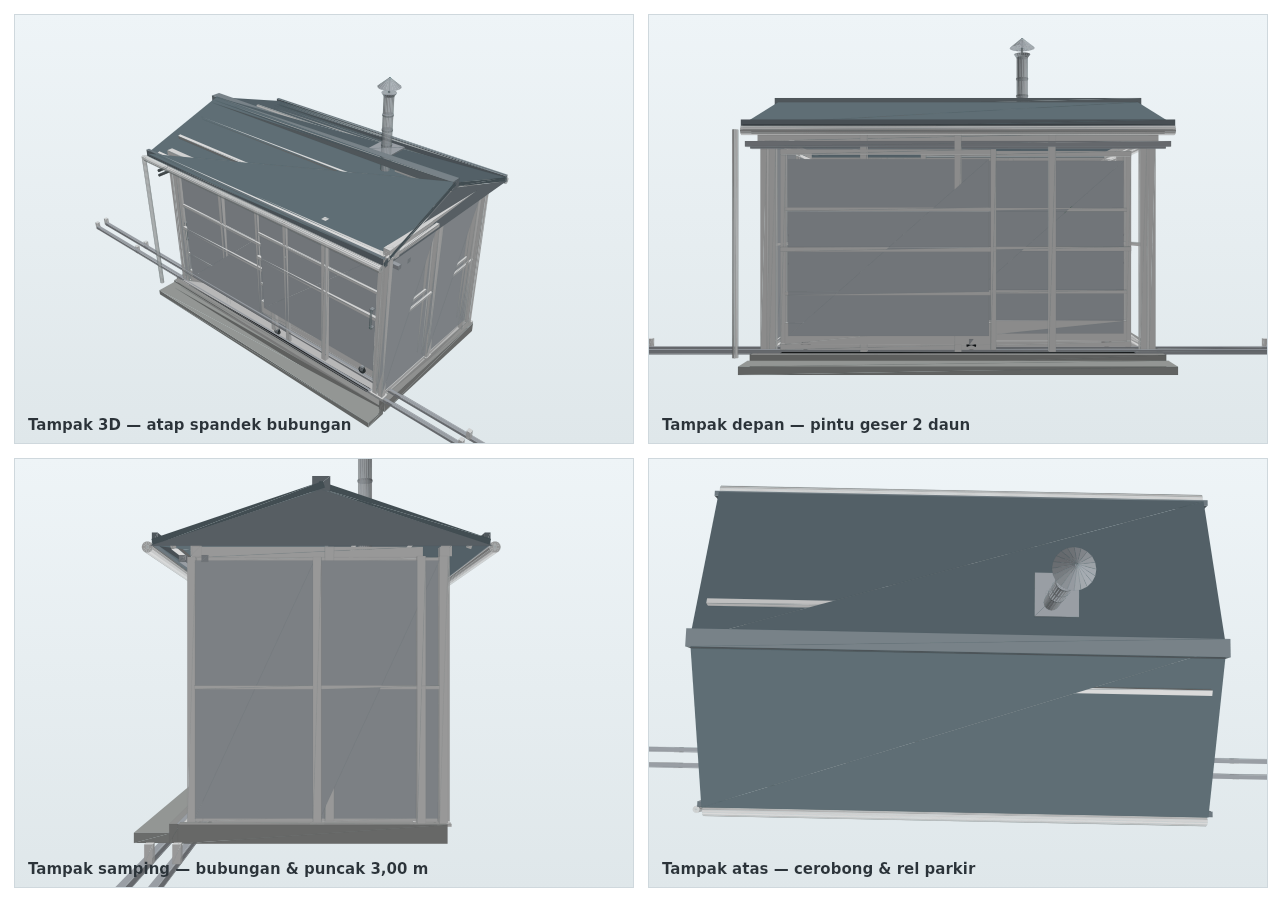
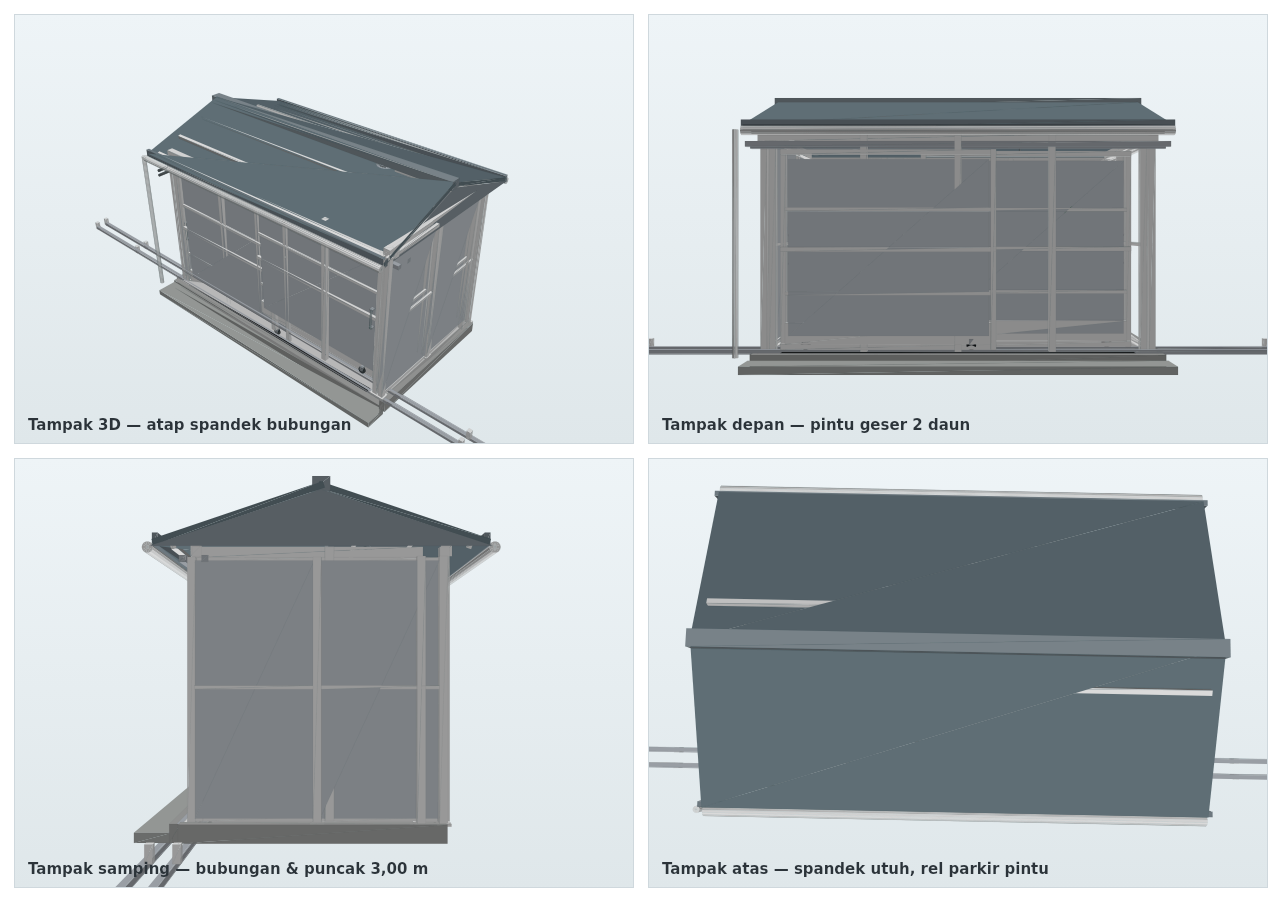
fix(v2): knalpot berhenti di bawah atap, spandek tidak dilubangi
- hapus collar/flashing + cerobong di atas atap; ujung knalpot kanopi
  cukup diberi collar, tiga penopang, dan tudung hujan (semua < bidang atap)
- gantungan knalpot ke rangka atap tetap di bawah spandek
- teks callout, tab Bagian, catatan tab Rumah, README, docs rencana,
  dan gambar rencana ikut disesuaikan
- pratinjau 4 sudut diperbarui

diff --git a/index.html b/index.html
@@ -1411,6 +1411,12 @@ function buildShelter(T, opts) {
   var roofRG0 = zb - tW - 0.35, roofRG1 = zf + 0.35;   // atap menonjol 35 cm tiap sisi
   var halfRun = (roofRG1 - roofRG0) / 2;
   var slope = Math.atan2(rise, halfRun);  // kemiringan bidang atap
+  /* tinggi (y) permukaan atap pada koordinat z tertentu — dipakai untuk menaruh
+     knalpot & gantungan supaya tetap di bawah bidang spandek */
+  function roofYAt(z) {
+    var f = Math.max(0, Math.min(1, (z - roofRG0) / (roofRG1 - roofRG0)));
+    return roofBase + rise * (1 - Math.abs(2 * f - 1));
+  }
   if (v2) {
     zincM = new T.MeshStandardMaterial({
       map: ctex(128, 128, function (g, w, h) {
@@ -1604,28 +1610,36 @@ function buildShelter(T, opts) {
   var ezCanopy = -0.55;                      // knalpot keluar dari muka belakang kanopi
   var elbowZ, risH, risTop;
   if (v2) {
-    /* V2: cerobong naik dari knalpot kanopi, menembus bidang atap spandek di sisi
-       kanan dekat belakang (posisi lingkaran pada sketsa denah). Pagar tidak
-       dilubangi. Ditambah collar/flashing + penutup hujan di atas atap. */
-    var crossZ = ezCanopy;                  // sumbu cerobong = ujung knalpot kanopi
+    /* V2: knalpot kanopi TIDAK menembus atap. Ujung knalpot yang sudah ada cukup
+       ditambah collar, tiga penopang tudung, dan tudung hujan — semuanya berhenti
+       di bawah bidang atap spandek. Pagar juga tidak dilubangi. */
+    var crossZ = ezCanopy;                  // sumbu knalpot = ujung knalpot kanopi
     var xSt = 0.88;
-    // tinggi bidang atap di titik tembus (interpolasi lereng)
-    var fZ = (crossZ - roofRG0) / (roofRG1 - roofRG0);
-    var yRoof = roofBase + rise * (1 - Math.abs(2 * Math.max(0, Math.min(1, fZ)) - 1));
+    var muffTop = 2.66;                     // ujung atas knalpot kanopi (dari model genset)
+    // tinggi bidang atap tepat di atas knalpot, lalu sisakan ruang bebas
+    var yRoofHere = roofYAt(crossZ);
+    var capTop = Math.min(muffTop + 0.16, yRoofHere - 0.1, ridgeY - 0.1);
+    var capH = 0.08, capR = 0.14;
     elbowZ = crossZ;
-    cyl(0.1, 0.11, steelM, 'y', xSt, yRoof + 0.03, crossZ, exG, 22);
-    box(0.4, 0.02, 0.4, steelM, xSt, yRoof + 0.085, crossZ, exG, false);
-    // cerobong: dari ujung knalpot kanopi sampai 1,0 m di atas atap
-    var chTop = ridgeY + 0.75, chBot = 2.58;   // dari ujung knalpot kanopi sampai atas atap
-    cyl(0.075, chTop - chBot, stainM, 'y', xSt, (chTop + chBot) / 2, crossZ, exG, 20);
-    [0.35, 0.55, 0.75].forEach(function (f) { cyl(0.082, 0.02, steelM, 'y', xSt, chBot + f * (chTop - chBot), crossZ, exG, 18); });
-    // penutup hujan (cap) di ujung atas
-    cyl(0.075, 0.05, steelM, 'y', xSt, chTop + 0.02, crossZ, exG, 20, 0.11);
-    cyl(0.012, 0.2, steelM, 'y', xSt, chTop + 0.14, crossZ, exG, 10);
-    var cap = new T.Mesh(new T.ConeGeometry(0.17, 0.14, 20), steelM);
-    cap.position.set(xSt, chTop + 0.2, crossZ); exG.add(cap);
+    // collar di ujung knalpot
+    cyl(0.1, 0.03, steelM, 'y', xSt, muffTop + 0.01, crossZ, exG, 20, 0.112);
+    // tiga penopang tudung
+    for (var ci = 0; ci < 3; ci++) {
+      var ca = ci / 3 * PI * 2;
+      cyl(0.008, Math.max(0.02, capTop - capH / 2 - muffTop - 0.02), steelM, 'y',
+        xSt + Math.cos(ca) * capR * 0.72, (muffTop + 0.02 + capTop - capH / 2) / 2, crossZ + Math.sin(ca) * capR * 0.72, exG, 8);
+    }
+    // tudung hujan (di bawah atap)
+    var cap = new T.Mesh(new T.ConeGeometry(capR, capH, 20), steelM);
+    cap.position.set(xSt, capTop - capH / 2, crossZ); exG.add(cap);
+    // gantungan knalpot ke rangka atap, tetap di bawah bidang atap
+    var hangZ = crossZ - 0.34, hangY = Math.min(muffTop - 0.04, roofYAt(hangZ) - 0.06);
+    cyl(0.011, 0.34, steelM, 'z', xSt, hangY, crossZ - 0.17, exG, 8);
+    box(0.05, 0.03, 0.045, steelM, xSt, hangY, hangZ, exG, false);
+    // batang pendek naik dari knalpot ke gantungan
+    cyl(0.011, 0.12, steelM, 'y', xSt, hangY - 0.06, hangZ, exG, 8);
     risH = 0;
-    risTop = chTop;
+    risTop = capTop;
   } else {
     var ezLen = Math.max(0.4, ezCanopy - ez), ezMid = (ezCanopy + ez) / 2;
     cyl(0.058, ezLen, pipeM, 'z', 0.88, exY, ezMid, exG, 18);
@@ -1808,7 +1822,7 @@ function buildShelter(T, opts) {
     { part: 'shVentOut', label: 'Kisi udara keluar', pos: [a + 0.2, 1.8, 0.1], n: [1, 0, 0] },
     { part: 'shSign', label: 'Papan peringatan', pos: [-(a + 0.25), 1.9, zf - 0.7], n: [-1, 0, 0] },
     { part: 'shFloor', label: v2 ? 'Lantai beton + sloof 15 cm' : 'Lantai beton', pos: [0, v2 ? -0.06 : -0.1, platZ1 + 0.25], n: [0, 0, 1] },
-    { part: 'shExhaust', label: v2 ? 'Cerobong menembus atap' : 'Knalpot tembus dinding', pos: v2 ? [0.88, risTop - 0.3, elbowZ] : [0.88, exY + risH + 0.16, elbowZ], n: null },
+    { part: 'shExhaust', label: v2 ? 'Cerobong di bawah atap' : 'Knalpot tembus dinding', pos: v2 ? [0.88, risTop - 0.15, elbowZ] : [0.88, exY + risH + 0.16, elbowZ], n: null },
     { part: 'shLights', label: 'Lampu downlight', pos: [-a * 0.5, roofBase - 0.1, zf - 0.55], n: null, need: 'roofFade' },
     { part: 'shPanel', label: v2 ? 'Panel genset + kWh' : 'Panel distribusi', pos: v2 ? [-(a + 0.28), 1.85, zf - 1.75] : [pnx, 1.85, zb + 0.2], n: v2 ? [-1, 0, 0] : null },
     { part: 'shApar', label: 'APAR', pos: [apx, 1.55, v2 ? zb + 0.3 : zb + 0.2], n: null, need: 'inside' }
@@ -1889,7 +1903,7 @@ function buildShelter(T, opts) {
       mn: 'Panel genset + kWh (luar)', md: 'Sesuai sketsa, panel genset dan kotak kWh dipasang di dinding samping luar, bukan di dalam. Dua jalur kabel genset masuk menembus pagar menuju panel, jadi operator bisa memantau beban tanpa masuk ke rumah genset. Kotak kWh terpisah di bawahnya, dengan konduit naik ke atas.', c: function (S) { return { t: [-S.a + 0.45, 1.45, S.zb], az: -0.35, pol: 1.4, r: 4.2 }; }, gates: true },
     shApar: { n: 'APAR (pemadam api)', k: 'Rumah genset', d: 'Alat pemadam api ringan 6 kg ABC dengan pengikat di dinding belakang dekat radiator, lengkap dengan tanda hijau di atasnya.', c: function (S) { return { t: [S.a - 0.4, 1.2, S.zb], az: 0.35, pol: 1.4, r: 4.2 }; }, gates: true },
     shExhaust: { n: 'Knalpot tembus dinding', k: 'Rumah genset', d: 'Pipa knalpot menembus dinding belakang lewat flens, lalu naik dan ditutup tudung anti hujan di luar. Gas buang keluar jauh dari ruang genset.',
-      mn: 'Cerobong menembus atap', md: 'Knalpot kanopi disambung pipa tegak (cerobong) yang menembus bidang atap spandek di sisi kanan dekat belakang — posisi yang sama dengan lingkaran “cerobong knalpot” pada sketsa denah. Di titik tembus ada collar dan flashing supaya air hujan tidak masuk, dan ujungnya diberi penutup hujan. Pagar tidak dilubangi sama sekali.', c: function (S) { return { t: [0.88, 2.8, -1.2], az: 2.9, pol: 1.2, r: 5 }; } },
+      mn: 'Cerobong (di bawah atap)', md: 'Knalpot kanopi disambung pipa tegak (cerobong) di sisi kanan dekat belakang — posisi yang sama dengan lingkaran “cerobong knalpot” pada sketsa denah. Cerobong ini naik hanya di dalam rumah genset dan berhenti di bawah bidang atap spandek; atap tidak dilubangi. Ujungnya diberi tudung supaya gas buang tidak menyembur langsung ke bidang atap, dan dipasang gantungan ke rangka atap. Pagar juga tidak dilubangi sama sekali.', c: function (S) { return { t: [0.88, 2.7, -1.05], az: 2.9, pol: 1.2, r: 5 }; } },
     shGarden: { n: 'Taman dan pohon palem', k: 'Rumah genset', d: 'Pohon palem berbatang cincin dengan daun berjari, semak berdaun, dan rumput bertekstur di sebelah kanan, seperti pada foto acuan. Bisa dimatikan di tab Rumah.', c: function (S) { return { t: [S.a + 2.5, 1.5, S.zf - 0.3], az: 0.9, pol: 1.3, r: 9 }; } }
   };
   var ORDER = [
@@ -2431,7 +2445,7 @@ function buildShelter(T, opts) {
       ? 'Versi pagar (sketsa lapangan): modul 4,50 × 2,50 m, pagar wiremesh isi 25 cm, atap spandek bubungan, dan pintu geser samping seperti pagar roda.'
       : 'Rumah genset berpintu louvre ganda, atap beton, dan lantai plat seperti pada foto acuan.';
     if (note) note.textContent = mesh
-      ? 'Ukuran dalam meter, diukur dari bagian dalam pagar (4,00 × 2,00 m). Dinding pagar isi 25 cm, jadi modul luar 4,50 × 2,50 m. Tinggi 3,00 m = pagar 2,40 m + naik atap 0,60 m; cerobong menembus atap, panel genset + kWh di dinding samping luar.'
+      ? 'Ukuran dalam meter, diukur dari bagian dalam pagar (4,00 × 2,00 m). Dinding pagar isi 25 cm, jadi modul luar 4,50 × 2,50 m. Tinggi 3,00 m = pagar 2,40 m + balok ring 10 cm + naik atap 50 cm; cerobong berhenti di bawah atap, panel genset + kWh di dinding samping luar.'
       : 'Ukuran dalam meter, diukur dari bagian dalam dinding. Dinding plester kuning setebal 20 cm, atap menjorok 0,6 m di depan.';
     // nama bagian di tab "Bagian" ikut versi
     document.querySelectorAll('.part-row').forEach(function (b) {

diff --git a/docs/rencana-v2.md b/docs/rencana-v2.md
@@ -50,7 +50,7 @@ Sketsa ini berbeda secara mendasar:
 | Tinggi | 2,35 m (dipotong otomatis dari tinggi ruangan) | **tetap 2,40 m**, tidak mengikuti slider tinggi |
 | Pintu | 2 daun **engsel**, buka ke depan | 2 daun **geser samping** dengan roda (“seperti pagar roda”) |
 | Bukaan | pintu menutup sebagian depan | **seluruh sisi depan** bisa dibuka (bukaan 4,00 m) |
-| Cerobong | hanya knalpot kanopi naik menembus atap | **cerobong khusus** menembus atap, ditandai di denah & tampak depan |
+| Knalpot | hanya knalpot kanopi naik menembus atap | **knalpot khusus** di posisi yang ditandai lingkaran pada denah, tetapi (revisi klien) **berhenti di bawah atap** |
 | Kelistrikan | panel distribusi di dalam | **panel + kWh di dinding samping luar**, kabel masuk satu jalur |
 | Dinding | rangka + jaring | rangka + jaring, **tiang hollow 60 × 60** di sudut, **3 rel** (atas/tengah/bawah) |
 | Pondasi | plat beton | **sloof/pondasi 15 cm** + lantai beton |
@@ -63,34 +63,32 @@ Lihat gambar: `docs/img/v2-pagar-rencana.svg`.
 
 - **Modul**: 4,50 × 2,50 m luar; isi pagar 25 cm → ruang bersih 4,00 × 2,00 m. Sesuai sketsa apa adanya.
 - **Dinding**: tiang hollow 60 × 60 di 4 sudut + tiang pembagi tiap ±1,3 m; rel atas, tengah, bawah; wiremesh 10 × 10 cm di semua bidang. Pagar belakang dibuat **panel lepas** (sekrup) supaya servis dari belakang tetap mungkin walau ruangnya sempit.
-- **Tinggi dinding**: 2,40 m (sesuai sketsa “250 = lebar”, bukan tinggi; 2,40 m adalah angka yang paling masuk akal untuk pagar + genset 1,75 m).
-- **Atap**: baja ringan + spandek, **bubungan memanjang** dengan kemiringan ±25°, rise 60 cm → puncak ±3,00 m. Menonjol 30 cm di depan-belakang dan 20 cm di samping, plus talang.
-- **Cerobong**: pipa dari knalpot genset naik menembus atap di posisi yang sama seperti sketsa (sisi kanan, dekat belakang), dengan collar + flashing + penutup hujan.
+- **Tinggi dinding**: 2,40 m, ditambah balok ring 10 cm dan naik atap 50 cm → total 3,00 m (keputusan klien).
+- **Atap**: baja ringan + spandek, **bubungan memanjang** dengan kemiringan ±21°, naik 50 cm dari balok ring → puncak 3,00 m. Menonjol 35 cm di depan-belakang, dilengkapi nok, lis, dan talang.
+- **Knalpot / cerobong**: tetap di posisi yang sama seperti sketsa (sisi kanan, dekat belakang), tetapi **berhenti di bawah atap** — atap spandek tidak dilubangi. Ujung knalpot diberi collar + tudung hujan dan digantung ke rangka atap supaya tidak menggantung bebas.
 - **Pintu geser**: 2 daun @ ±2,00 × 2,30 m, rangka hollow + wiremesh, roda di rel bawah, daun kiri bergeser ke kiri dan daun kanan ke kanan (di luar modul, perlu ruang parkir ±2 m di tiap sisi — atau daun kedua menumpang di belakang daun pertama bila lahan sempit).
 - **Kelistrikan**: panel genset + kWh di dinding samping luar (kiri), satu jalur kabel masuk lewat dinding.
 - **Pondasi**: sloof 15 × 20 cm + lantai beton 10 cm, dinaikkan 15 cm dari tanah seperti sketsa.
 
-## 5 · Keputusan yang saya butuh darimu
+## 5 · Keputusan yang sudah diambil
 
-1. **Tinggi total.** Sketsa hanya memberi 450 × 250 tanpa tinggi. Pilih:
-   - **2,40 m** — persis seperti yang terbaca dari sketsa; ringkas, cukup untuk genset 1,75 m, tapi **pintu-pintu kanopi genset tidak bisa dibuka penuh** di dalam (kanopi butuh ±2,1 m + ruang buka).
-   - **2,75 m** *(usulan saya)* — masih rendah, panel kanopi bisa dibuka, atap tetap terlihat seperti sketsa.
-   - **3,00 m** — kalau kamu ingin lebih lega dan mirip V1.
-2. **Pintu geser: berapa daun?** Dua daun (seperti sketsa, butuh ±2 m ruang parkir di tiap sisi) atau satu daun besar (±4 m, butuh 4 m ruang parkir satu sisi)? Kalau lahan di depan sangat sempit, alternatifnya pintu lipat.
-3. **4,50 × 2,50 m dipakai apa adanya?** Dengan isi 25 cm, ruang bersih cuma 2,00 m sementara genset 1,10 m — masih lega. Tapi kalau mau ruang servis samping lebih baik, bisa dibulatkan ke **4,50 × 2,60 m** (bersih 2,10 m) tanpa mengubah bentuk.
-4. **Denah di sketsa: mana sisi depan?** Di sketsa, pintu geser digambar di sisi **panjang** (450). Saya ikuti itu. Kalau sebenarnya pintu ada di sisi **pendek** (250), kabari — bentuk atap dan arah geser akan ikut berubah.
+1. **Tinggi total** — **3,00 m** (pagar 2,40 m + balok ring 10 cm + naik atap 50 cm), supaya panel kanopi genset tetap bisa dibuka di dalam.
+2. **Pintu geser** — **2 daun**, masing-masing ±2,16 m, roda di rel bawah.
+3. **Modul** — **4,50 × 2,50 m dipakai apa adanya** (ruang bersih 4,00 × 2,00 m).
+4. **Sisi depan** — **sisi panjang 450 cm**, jadi bubungan memanjang.
+5. **Atap & knalpot** — atap tetap **spandek bubungan**; **knalpot tidak menembus atap**, berhenti di bawahnya.
 
-## 6 · Yang akan saya kerjakan setelah konfirmasi
+## 6 · Yang sudah dikerjakan
 
 Semua di `index.html`, tanpa build step:
 
-1. **Preset V2 baru**: tombol versi rumah tetap “V2 · Pagar wiremesh”, tapi parameternya diganti ke modul sketsa (450 × 250, isi 25 cm, tinggi dinding dari jawaban §5.1).
+1. **Preset V2 baru**: tombol versi rumah tetap “V2 · Pagar wiremesh”, parameternya modul sketsa (4,50 × 2,50 m, isi 25 cm, total tinggi 3,00 m). Ukuran di slider diukur dari dalam pagar.
 2. **Atap bubungan**: ganti atap seng datar dengan dua bidang spandek + reng + lis, plus talang; kamera “3D” tetap enak melihat bubungannya.
-3. **Pintu geser**: daun pintu baru dengan rel bawah + roda, animasi geser (bukan putar), label “geser” di tab Pintu, dan pembatas otomatis supaya daun tidak menabrak apa pun.
-4. **Cerobong**: naik dari knalpot menembus atap dengan collar/flashing, posisi sesuai sketsa.
-5. **Panel + kWh di luar**: dipindah ke dinding samping luar, kabel masuk satu jalur.
+3. **Pintu geser**: daun pintu baru dengan rel bawah + roda, animasi geser (bukan putar), rel parkir di kiri-kanan, dan label “geser” di tab Pintu.
+4. **Knalpot**: naik hanya di dalam rumah genset, berhenti di bawah atap dengan collar + tudung hujan; atap spandek utuh tanpa lubang.
+5. **Panel + kWh di luar**: dipindah ke dinding samping luar, dua jalur kabel masuk.
 6. **Pondasi 15 cm + lantai beton**: diangkat dari tanah, dengan tangga/step di depan pintu.
-7. **Label & teks**: semua callout, teks tab Rumah, README, dan tautan *Bagikan* ikut diperbarui (hash versi dinaikkan supaya tautan lama tidak menampilkan campuran).
-8. **Cek visual**: render beberapa sudut untuk memastikan tidak ada bagian yang saling menembus.
+7. **Label & teks**: semua callout, teks tab Rumah, README, gambar rencana, dan tautan *Bagikan* ikut diperbarui (hash versi dinaikkan supaya tautan lama tidak menampilkan campuran).
+8. **Cek visual**: render beberapa sudut (pratinjau di `docs/img/v2-pagar-pratinjau.png`) untuk memastikan tidak ada bagian yang saling menembus — termasuk jarak ujung knalpot ke bidang atap.
 
 Kalau ada angka lain dari lapangan (misal gensetnya 2,5 m atau 3 m panjang), sebutkan saja — modul 4,50 m masih cukup untuk genset sampai 3,2 m.

diff --git a/README.md b/README.md
@@ -10,7 +10,7 @@ Interaktif 3D cutaway untuk genset bersilencer (soundproof enclosure) — pintu,
 - **Dua versi rumah genset** (tab *Rumah → Versi rumah*):
   - **V1 · Dinding plester** — rumah kuning dengan pintu louvre ganda, atap beton, dan kusen ventilasi.
     Ukuran bawaan V1: 5,0 × 4,1 × 3,1 m. Ukuran bawaan V2: 4,0 × 2,0 × 3,0 m **diukur dari dalam pagar**, jadi modul luarnya 4,50 × 2,50 m.
-  - **V2 · Pagar wiremesh** — dibuat dari sketsa lapangan klien: modul **4,50 × 2,50 m** dengan pagar isi **25 cm** (ruang bersih 4,00 × 2,00 m), rangka hollow 60 × 60, jaring wiremesh 10 × 10 cm keliling, **atap spandek bubungan** (pagar 2,40 m + balok ring 10 cm + naik atap 50 cm = **3,00 m**), **pintu geser samping 2 daun** dengan roda di rel bawah, **cerobong** yang menembus atap, dan **panel genset + kWh di dinding samping luar**. Analisis & gambar rencananya ada di [`docs/rencana-v2.md`](docs/rencana-v2.md) dan [`docs/img/v2-pagar-rencana.svg`](docs/img/v2-pagar-rencana.svg).
+  - **V2 · Pagar wiremesh** — dibuat dari sketsa lapangan klien: modul **4,50 × 2,50 m** dengan pagar isi **25 cm** (ruang bersih 4,00 × 2,00 m), rangka hollow 60 × 60, jaring wiremesh 10 × 10 cm keliling, **atap spandek bubungan** (pagar 2,40 m + balok ring 10 cm + naik atap 50 cm = **3,00 m**), **pintu geser samping 2 daun** dengan roda di rel bawah, **knalpot yang berhenti di bawah atap** (spandek tidak dilubangi), dan **panel genset + kWh di dinding samping luar**. Analisis & gambar rencananya ada di [`docs/rencana-v2.md`](docs/rencana-v2.md) dan [`docs/img/v2-pagar-rencana.svg`](docs/img/v2-pagar-rencana.svg).
 - Tab Pintu / Rumah / Kanopi / Bagian / Teks untuk mengatur setiap elemen.
 - Sudut kamera siap pakai (depan, belakang, kiri, kanan, atas, 3D).
 - Pintu tidak pernah menembus dinding/pagar: di V1 daun pintu berhenti di ±83–86° (pintu belakang kanopi dibatasi sesuai sisa ruang di belakang genset), di V2 daun pintu **meluncur ke samping** di relnya masing-masing sehingga tidak mungkin membentur pagar.
@@ -26,7 +26,7 @@ Model ini menyederhanakan praktik pemasangan genset yang umum, dengan prioritas 
 | Akses belakang | NEC 110.26/NFPA 110 menuntut ruang kerja 36 inci *atau* ruang untuk membuka penuh pintu engsel. Bila lahan sempit, enclosure memakai **panel lepas (removable)** | Jarak belakang dinaikkan ke **1,5 m**, jadi dua pintu belakang kanopi **bisa dibuka penuh (±79°)**; panel lepas tetap jadi alternatif bila lahan sempit |
 | Jarak servis | Sisi servis 1,5–2,0 m; sisi exhaust/belakang 0,8–1,0 m | Jarak belakang **1,5 m**, jarak depan mengikuti kedalaman ruangan (bawaan **1,5 m**; ruang 5,0 × 4,1 × 3,1 m), ditampilkan di tab Rumah dengan tombol *Samakan ke standar (4,1 m)* |
 | Ventilasi | Bukaan masuk 1–1,5× luas radiator, keluar 2–3×; inlet rendah, outlet tinggi | V2: seluruh bidang pagar wiremesh (bukaan ±50–60%) menjadi jalur udara |
-| Buang asap | Cerobong harus keluar di atas enclosure; pada enclosure rangka, jalur naik lewat atap lebih rapi daripada menembus dinding | **V1:** knalpot mendatar 1,5 m ke dinding belakang lalu naik. **V2:** pagar tidak dilubangi sama sekali — knalpot kanopi disambung cerobong tegak yang menembus bidang atap spandek (sesuai lingkaran “cerobong knalpot” di sketsa), lengkap dengan collar/flashing dan penutup hujan |
+| Buang asap | Cerobong harus keluar di atas enclosure; pada enclosure rangka, jalur naik lewat atap lebih rapi daripada menembus dinding | **V1:** knalpot mendatar 1,5 m ke dinding belakang lalu naik. **V2:** pagar tidak dilubangi dan atap spandek juga tidak dilubangi — ujung knalpot kanopi hanya diberi collar + tudung hujan lalu digantung ke rangka atap, jadi seluruh jalur gas buang berhenti di bawah atap (sesuai revisi klien) |
 | Atap | Atap menjorok untuk menahan hujan, bukan menutup rapat | Atap seng/beton menjorok 0,6 m di depan, celah ventilasi tetap terbuka |
 | Panjang daun pintu | Daun pintu tidak boleh membentur dinding/pagar | V1: sudut buka dihitung otomatis dari ruang yang tersedia (`asin(ruang / lebar daun)`). V2: pintu geser, jadi tidak ada sudut buka; rel diperpanjang ke samping sebagai tempat parkir daun |
 | Jarak servis V2 | Kanopi genset butuh ruang untuk membuka panel | Modul 2,50 m memberi **0,4 m** di belakang dan **0,5 m** di depan kanopi; panel belakang dibuat lepas karena ruangnya sempit. Tinggi 3,00 m dipilih agar panel kanopi tetap bisa dibuka (pagar 2,40 m saja tidak cukup) |
